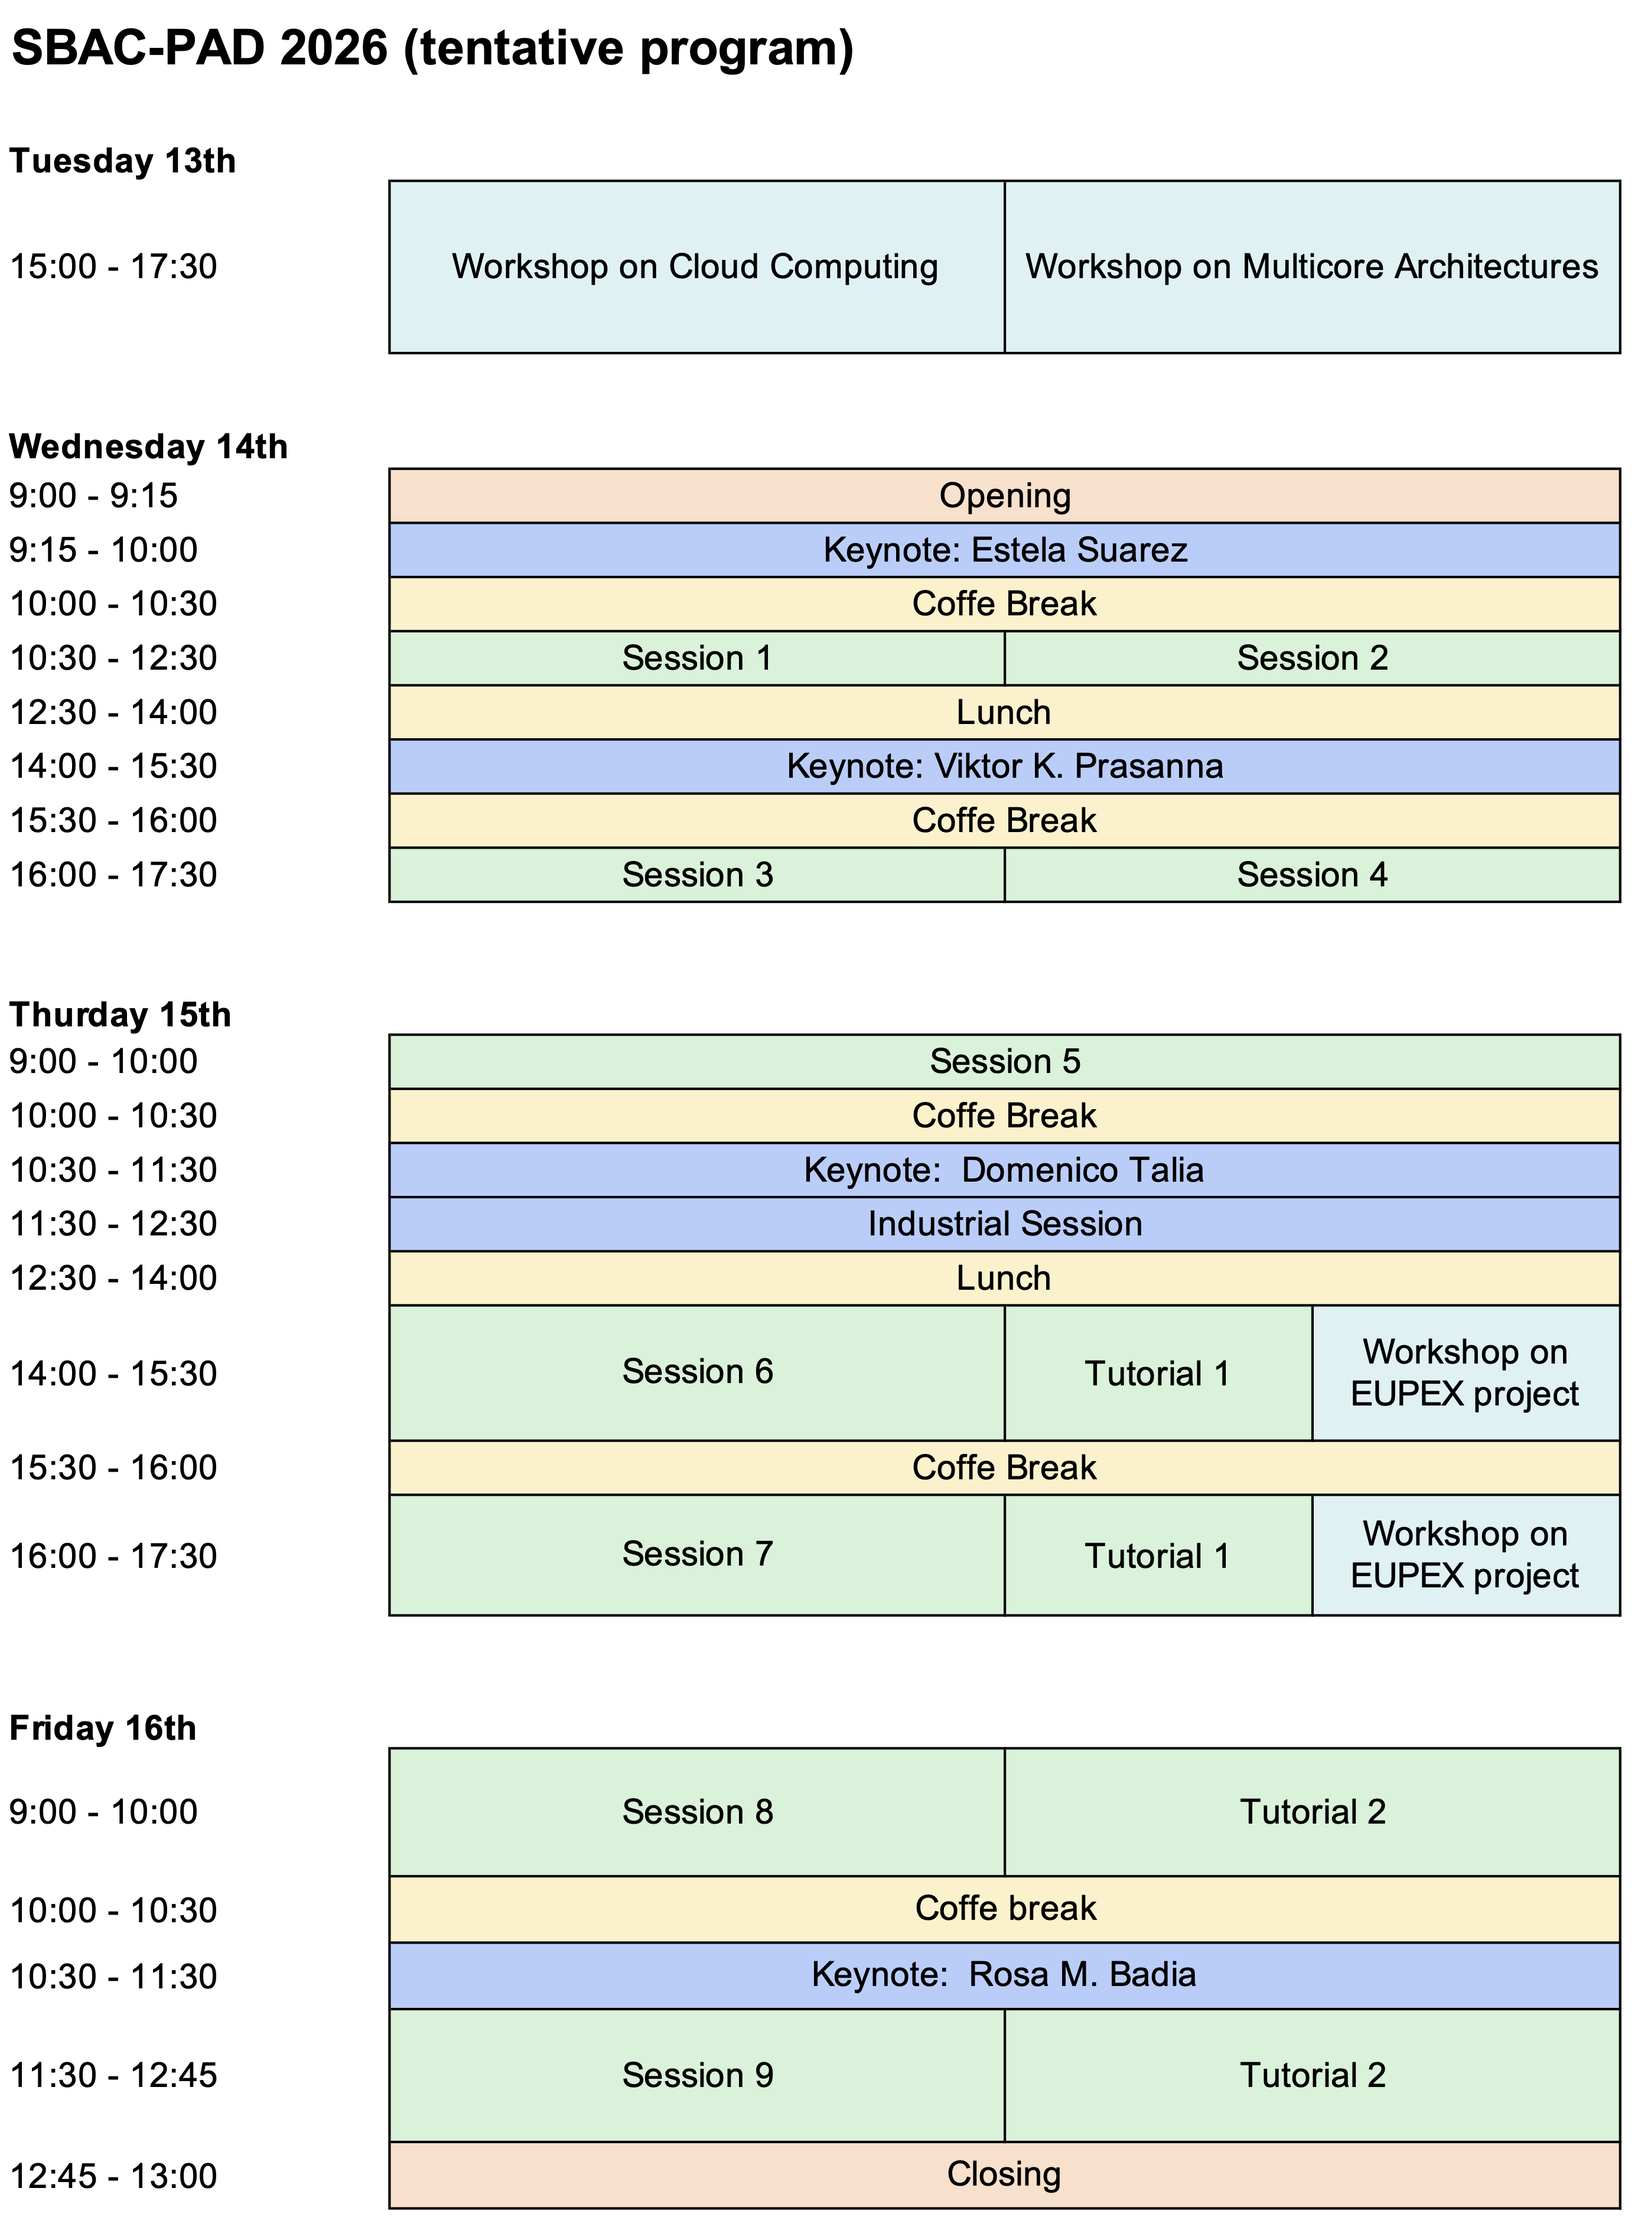
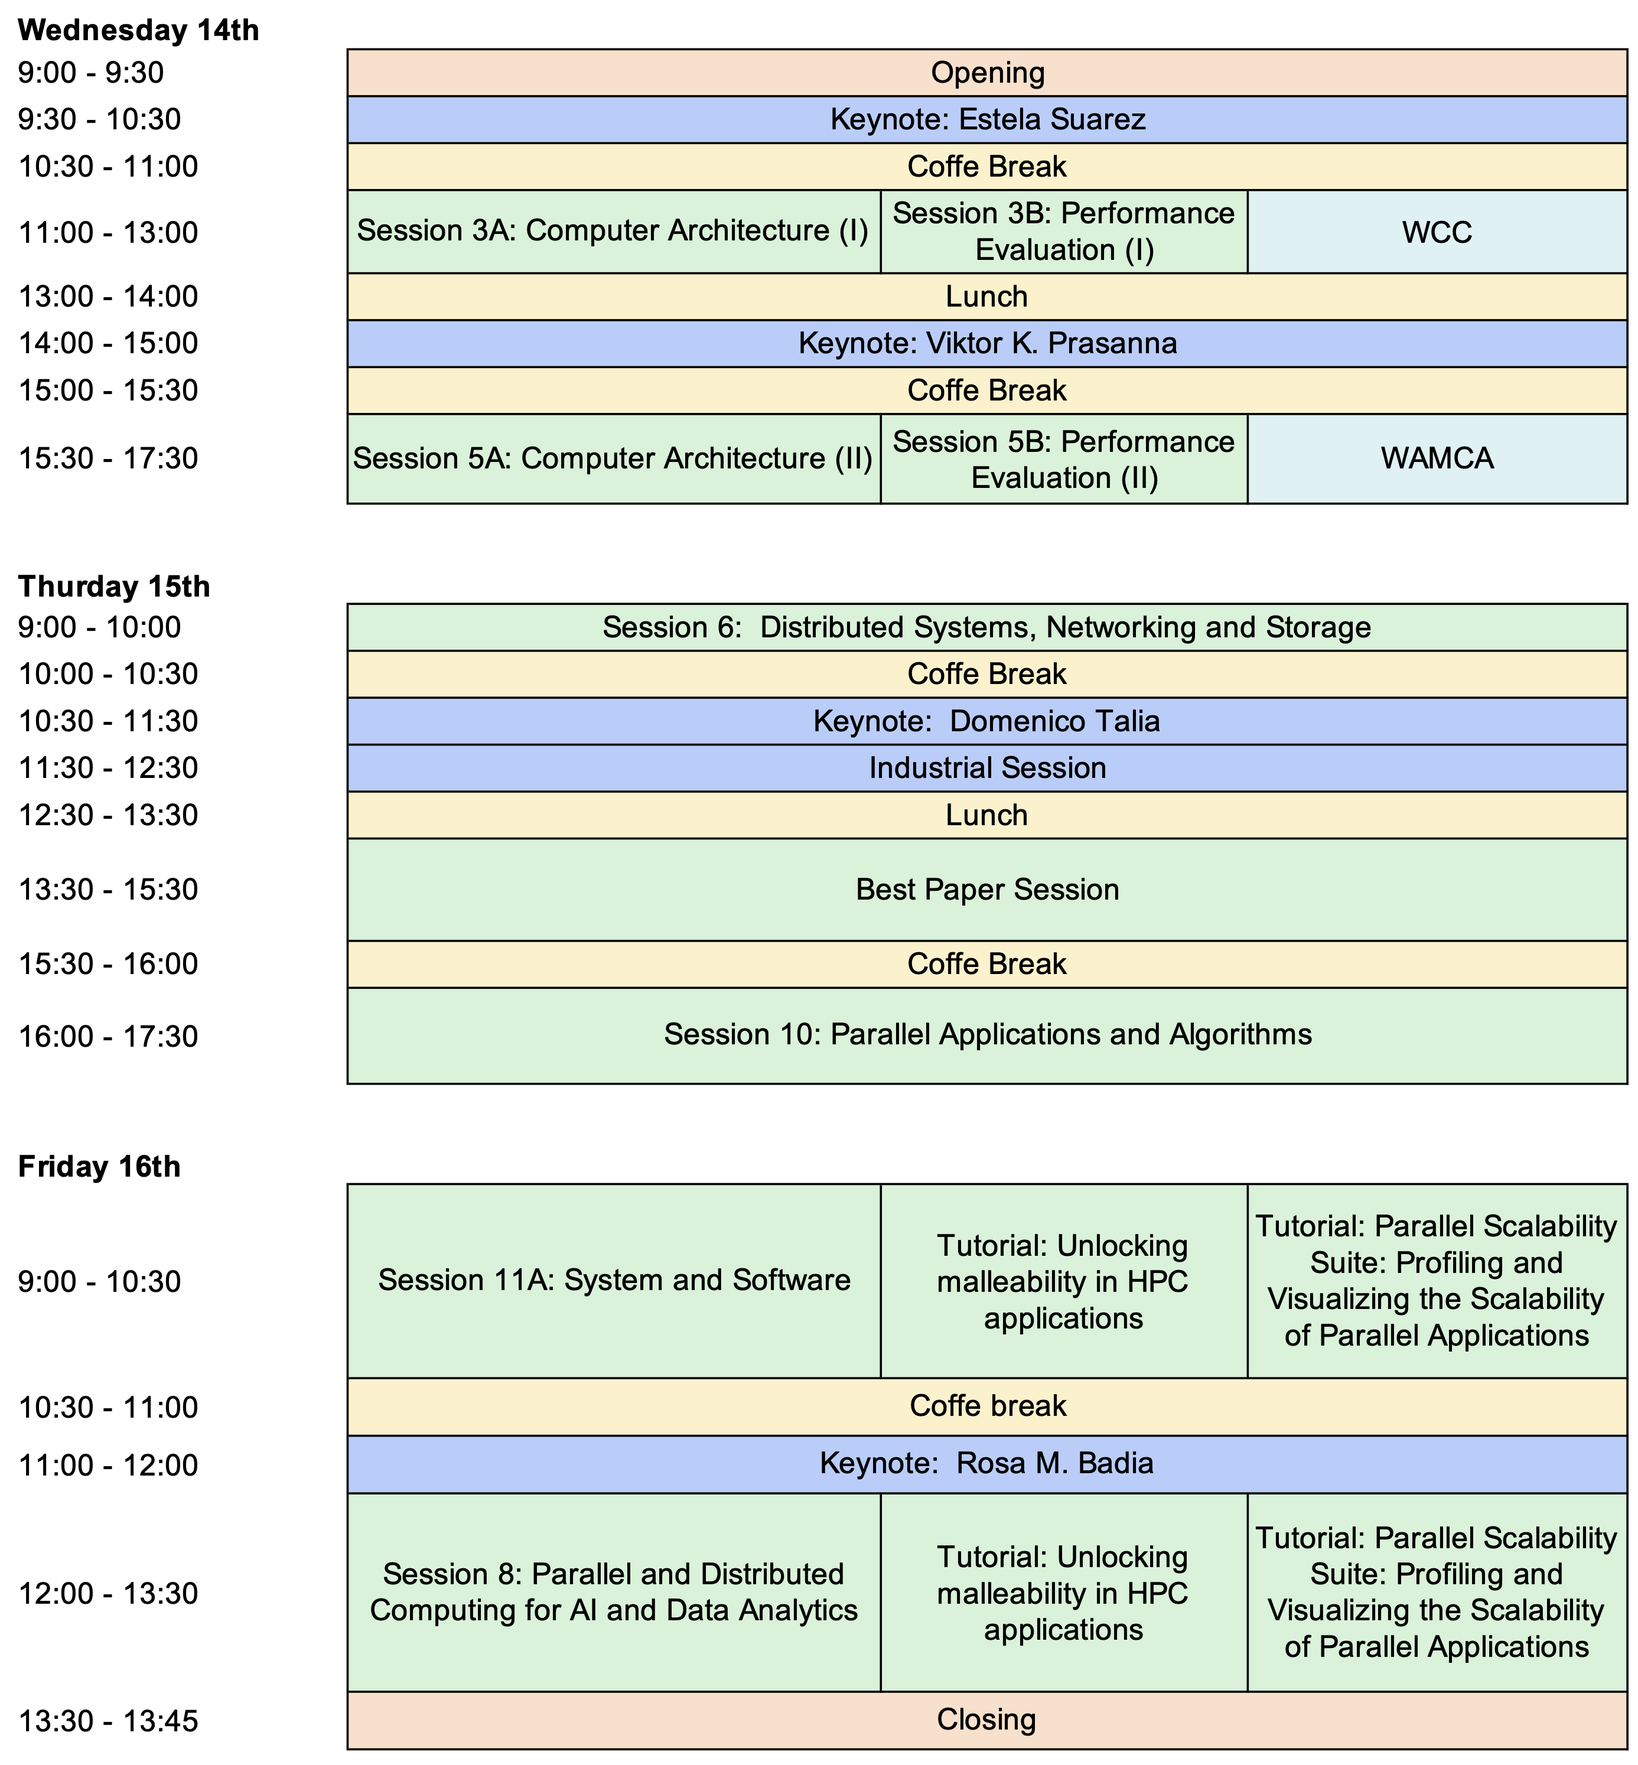
Update program overview with detailed program link and iframe

diff --git a/docs/conference/program.md b/docs/conference/program.md
@@ -1,3 +1,12 @@
 # Program Overview
 
+[Detailed program :fontawesome-solid-paper-plane:](https://easychair.org/smart-program/SBAC-PAD2026/){ .md-button }
+
+
 ![Program](../assets/imgs/sbac_pad_2026_program_at_a_glance.png)
+
+<iframe
+  src="https://easychair.org/smart-program/SBAC-PAD2026/"
+  title="Detailed program"
+  style="width:100%; height:1200px; border:0; margin-top:1rem;"
+></iframe>
